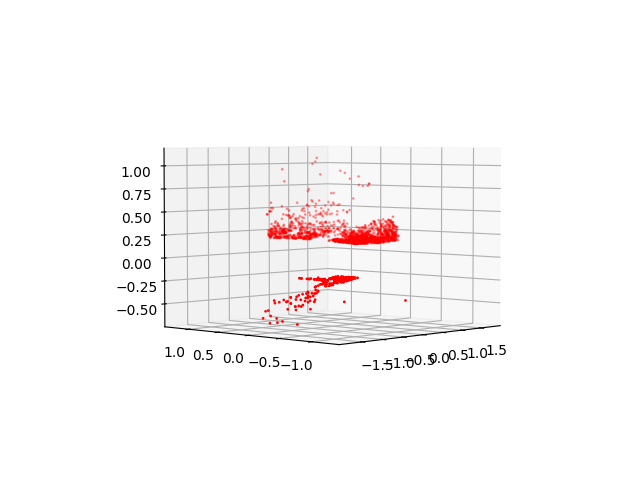
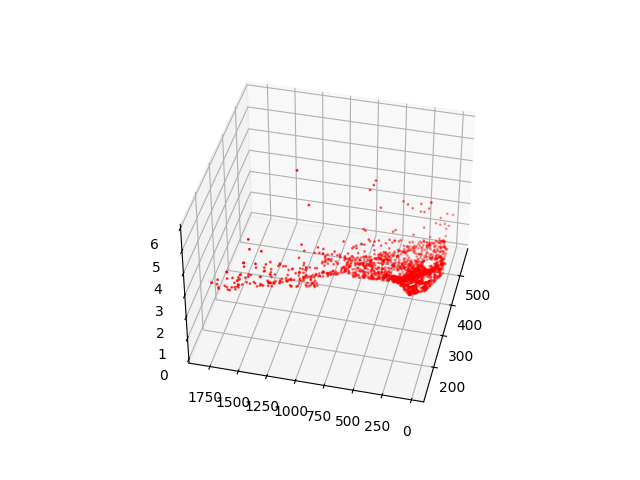
assignment 3 version 2

Changed region(s): [[0.1875, 0.1875, 0.8125, 0.9062], [0.375, 0.1562, 0.4375, 0.1875]]

diff --git a/assignment3/solution/ce2.py b/assignment3/solution/ce2.py
@@ -1,17 +1,9 @@
-from ce1 import F, N1, N2, norm1, norm2, x1, x2, kronan1, kronan2, n2t, n1t
+from ce1 import F, N1, N2, x1, x2, kronan1, kronan2, n2t, n1t
 import numpy as np
 from scipy.linalg import null_space
 import matplotlib.pyplot as plt
 from pflat import pflat 
-
-
-x1t = np.transpose(x1)
-x2t = np.transpose(x2)
-xy1_mean = [np.mean([x1[i]]) for i in range(0,2)]                                                   #Mean and standard deviation for the two images
-xy2_mean = [np.mean([x2[i]]) for i in range(0,2)]
-xy1_std = [np.std([x1[i]]) for i in range(0,2)]
-xy2_std = [np.std([x2[i]]) for i in range(0,2)]
-
+from triangulate import triangulate
 
 def skew_symmetric(m):
     if(len(m) != 3):
@@ -24,6 +16,10 @@ def pflat1d(d):
     last = d[-1]
     return [e / last for e in d]
 
+x1t = np.transpose(x1)
+x2t = np.transpose(x2)
+
+
 e2 = null_space(np.transpose(F))
 e2x = skew_symmetric([e[0] for e in e2])
 e2xF = np.matmul(e2x, F)
@@ -34,27 +30,19 @@ P1n = np.matmul(N1, P1)
 P2n = np.matmul(N2, P2)
 zeros = [[0] for _ in range(0, len(n1t[0]))]
 
-X = []
-for i in range(0, len(n1t)):
-    r1 = np.hstack((P1n, [[-e] for e in n1t[i]], zeros))
-    r2 = np.hstack((P2n, zeros, [[-e] for e in n2t[i]]))
-    M = np.vstack((r1, r2))
-    [U, S, V] = np.linalg.svd(M)
-    X.append(V[-1][:4])
+X = triangulate(P1n, P2n, n1t, n2t)
 
 xproj1 = np.transpose(pflat(np.linalg.inv(N1) @ (P1n @ np.transpose(X))))
 xproj2 = np.transpose(pflat(np.linalg.inv(N2) @ (P2n @ np.transpose(X))))
 
+
 #plt.imshow(kronan2, cmap='gray')
-#plt.scatter([x[0] for x in x2t], [x[1] for x in x2t], c='r', s=1.2)
+#plt.scatter([x[0] for x in x2t], [x[1] for x in x2t], c='r', s=2)
 #plt.scatter([x[0] for x in xproj2], [x[1] for x in xproj2], c='b', s=1)
+
 
 fig = plt.figure()
 ax = fig.add_subplot(projection='3d')
-X = pflat(X)
 ax.scatter([p[0] for p in X], [p[1] for p in X], [p[2] for p in X], c='r', s=1)
-
-#plt.scatter([x1t[i][0] for i in range(0, len(x1t))], [x1t[i][1] for i in range(0, len(x1t))], c='r', s=1)
-#plt.scatter([x2[i][0] for i in range(0, len(x2))], [x2[i][1] for i in range(0, len(x2))], c='b', s=1)
 
 plt.show()

diff --git a/assignment3/solution/ce1.py b/assignment3/solution/ce1.py
@@ -29,7 +29,7 @@ n2t = np.transpose(norm2)
 M = []
 
 for i in range(0, len(n1t)):
-    row = [n1t[i][j] * n2t[i][jj] for j in range(0, len(n1t[0])) for jj in range(0, len(n2t[0]))]
+    row = [n2t[i][j] * n1t[i][jj]  for j in range(0, len(n2t[0])) for jj in range(0, len(n1t[0]))]
     M.append(row)
     
 [U, S, V] = np.linalg.svd(M)
@@ -43,7 +43,7 @@ detF = np.linalg.det(F)
 
 Mv = np.linalg.norm(F @ V[len(V)-1:][0])
 epiConstr = np.diag(np.transpose(norm2) @ F @ norm1)
-nF = np.transpose(N2) @ F @ N1
+F = np.transpose(N2) @ F @ N1
 
 l = F @ x1
 l1 = l[0]
@@ -56,26 +56,29 @@ l = l / sqrt_sum_squares
 xp2 = np.transpose(x2)
 xp1 = np.transpose(x1)
 ls = np.transpose(l)
-randomNbr = [random.randint(0, len(n1t)) for _ in range(0, 20)]
-points = [np.transpose(x2)[i] for i in randomNbr]
+randomNbr = [random.randint(0, len(xp2)) for _ in range(0, 20)]
+points = [xp2[i] for i in randomNbr]
+pl = [ls[i]*2000 for i in randomNbr]
 
-def pyRital():
-    # Have to loop as axline only takes a point + a slope
-    for l in ls:
-        plt.axline((l[0], l[1]), l[1]/l[0])
+
 
 #plt.imshow(kronan2)
 #plt.scatter([x[0] for x in points], [x[1] for x in points], c='r', s=10)
-#pyRital()
-
-def distance(i):
-    x, y, z = xp2[i]
-    a, b, c = ls[i]
-    return np.abs(a * x + b * y + c) / np.sqrt(a**2 + b**2)
-
-distances = [distance(i) for i in range(0, len(xp2))]
+#for l in pl:
+#    print(l)
+#    plt.axline((l[0], l[1]), slope=l[1]/l[0], lw=10, c='g')
+#
+#def distance(i):
+#    x, y, z = xp2[i]
+#    a, b, c = ls[i]
+#    return np.abs(a * x + b * y + c) / np.sqrt(a**2 + b**2)
+#
+#
+#distances = [distance(i) for i in range(0, len(xp2))]
 #print(np.mean(distances))
 #plt.hist(distances, bins=100)
-#plt.show()
- 
+#
 #solF = [[el/F[2][2] for el in row] for row in F] # Fundamental matrix F with F/F[3,3]
+#print(solF)
+#
+#plt.show()

diff --git a/assignment3/solution/ce4.py b/assignment3/solution/ce4.py
@@ -1,5 +1,4 @@
 from ce3 import E, U, V
-from ce1 import N1, N2
 import numpy as np 
 import scipy
 from pflat import pflat, pflat1d
@@ -7,6 +6,7 @@ from plotcams import plotcams
 import matplotlib.pyplot as plt
 import matplotlib.image as mpimg
 from sympy import Matrix
+from triangulate import triangulate 
 
 kronan2 = mpimg.imread("../assignment3data/kronan2.JPG")
 x = scipy.io.loadmat("../assignment3data/compEx1data.mat")['x']
@@ -25,19 +25,10 @@ def doEverything(P1, P2):
     pa1 = P1[2][0:3]
     pa2 = P2[2][0:3]
 
-    zeros = [[0] for _ in range(0, len(n1t[0]))]
-    X = []
     inFront = 0
-    for i in range(0, len(n1t)):
-        r1 = np.hstack((P1, [[-e] for e in n1t[i]], zeros))
-        r2 = np.hstack((P2, zeros, [[-e] for e in n2t[i]]))
-        M = np.vstack((r1, r2))
-        [U, S, V] = np.linalg.svd(M)
-        X.append(V[-1][:4])
-    
-    pX = [pflat1d(e) for e in X]
-    for i in pX:
-        if i[2] > 0:
+    X = triangulate(P1, P2, n1t, n2t)
+    for p in X:
+        if p[2] > 0:
             inFront += 1
     fig3d = plt.figure()
     sp3d = fig3d.add_subplot(projection='3d')
@@ -45,7 +36,10 @@ def doEverything(P1, P2):
     sp3d.scatter(cc2[0], cc2[1], cc2[2], c='r')
     sp3d.quiver(cc1[0], cc1[1], cc1[2], pa1[0], pa1[1], pa1[2], color="g")
     sp3d.quiver(cc2[0], cc2[1], cc2[2], pa2[0], pa2[1], pa2[2], color="g")
-    sp3d.scatter([row[0] for row in pX], [row[1] for row in pX], [row[2] for row in pX], c='b', s=0.5)
+    sp3d.scatter([row[0] for row in X], [row[1] for row in X], [row[2] for row in X], c='b', s=0.5)
+    sp3d.set_xlabel('X')
+    sp3d.set_ylabel('Y')
+    sp3d.set_zlabel('Z')
     print(inFront)
     plt.show()
     

diff --git a/assignment3/solution/ce3.py b/assignment3/solution/ce3.py
@@ -16,25 +16,26 @@ n2t = np.transpose(normx2)
 
 M = []
 for i in range(0, len(n1t)):
-    row = [n1t[i][j] * n2t[i][jj] for j in range(0, len(n1t[0])) for jj in range(0, len(n2t[0]))]
+    row = [n2t[i][j] * n1t[i][jj] for j in range(0, len(n2t[0])) for jj in range(0, len(n1t[0]))]
     M.append(row)
     
 
 [U, S, V] = np.linalg.svd(M)
 solution = V[len(V)-1:][0]
 Mv = np.linalg.norm(M @ solution) # Check so that Mv = 0 (close enough)
+#print(Mv)
 Eapprox = np.reshape(solution, [3, 3])
 [U, S, V] = np.linalg.svd(Eapprox)
 if np.linalg.det(U @ V) > 0:
     E = U @ np.diag([1,1,0]) @ V
 else:
-    V = [[-e for e in v]for v in V]
+    V = [[-e for e in v] for v in V]
     E = E = U @ np.diag([1,1,0]) @ V
 
-    
 detE = np.linalg.det(E) #Should be zero, in this case it is close (8.74e⁻18)
 #plt.plot(np.diag((np.transpose(normx2) @ E @ normx1))) # Should be close to zero which it is (±0.03)
 F = np.transpose(Kinv) @ E @ Kinv
+
 
 l = F @ x1
 randomNbr = [random.randint(0, len(n1t)) for _ in range(0, 20)]
@@ -62,4 +63,13 @@ def distance(i):
 #print(np.mean(distances))
 #plt.hist(distances, bins=100)
 #plt.show()
-solE = [[el/E[2][2] for el in row] for row in E] # Fundamental matrix E with E/E[3,3]
+solE = [[el/E[2][2] for el in row] for row in E] # Essential matrix E with E/E[3,3]
+
+#The fundamental matrix: 
+#$
+#\begin{bmatrix}
+#0 & 0 & 0.0066\\
+#0 & 0 & -0.03\\
+#-0.008 & 0.03 & 1
+#\end{bmatrix}
+#$

diff --git a/assignment3/solution/triangulate.py b/assignment3/solution/triangulate.py
@@ -1,0 +1,14 @@
+import numpy as np
+from pflat import pflat1d
+
+def triangulate(P1, P2, x1, x2):
+    zeros = [[0] for _ in range(0, len(x1[0]))]
+    X = []
+    for i in range(0, len(x1)):
+        r1 = np.hstack((P1, [[-e] for e in x1[i]], zeros))
+        r2 = np.hstack((P2, zeros, [[-e] for e in x2[i]]))
+        M = np.vstack((r1, r2))
+        [U, S, V] = np.linalg.svd(M)
+        X.append(pflat1d(V[-1][:4]))
+    
+    return X

diff --git a/assignment3/solution/e6.py b/assignment3/solution/e6.py
@@ -6,7 +6,7 @@ var('s U W V Xs')
 # Help for solving exercise 6 in assignment 3. 
 
 U = [[1/np.sqrt(2), -1/np.sqrt(2), 0], [1/np.sqrt(2), 1/np.sqrt(2), 0], [0, 0, 1]]
-V = [[1,0,0], [0,0,1], [0,-1,0]]
+V = [[1,0,0], [0,0,-1], [0, 1,0]]
 W = [[0, -1, 0], [1, 0, 0], [0, 0, 1]]
 
 Xs = Matrix([0, 0, 1, s])
